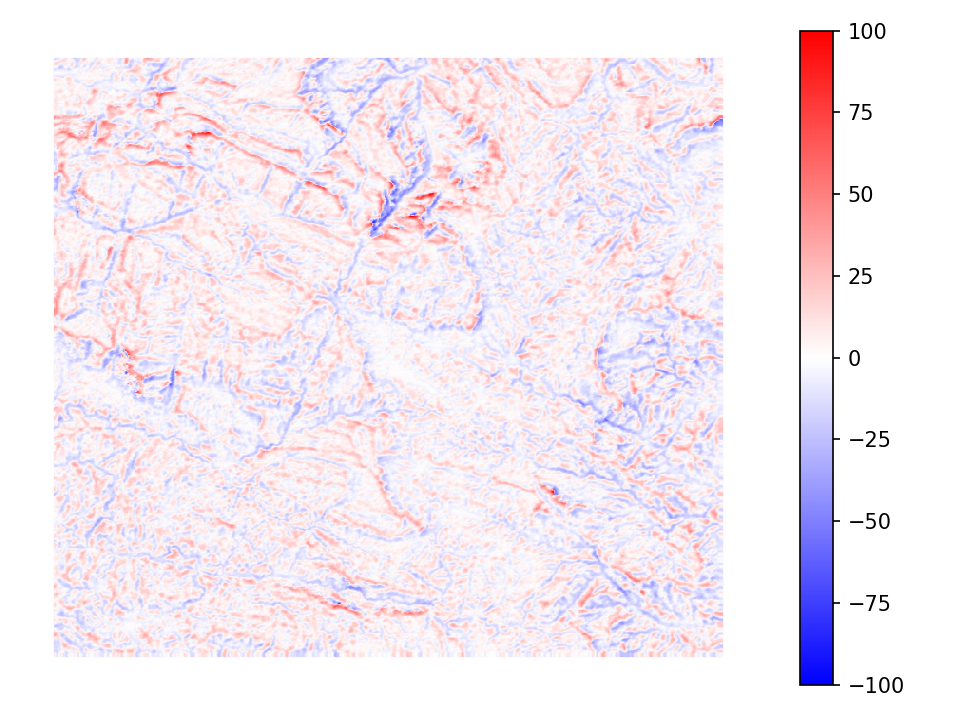
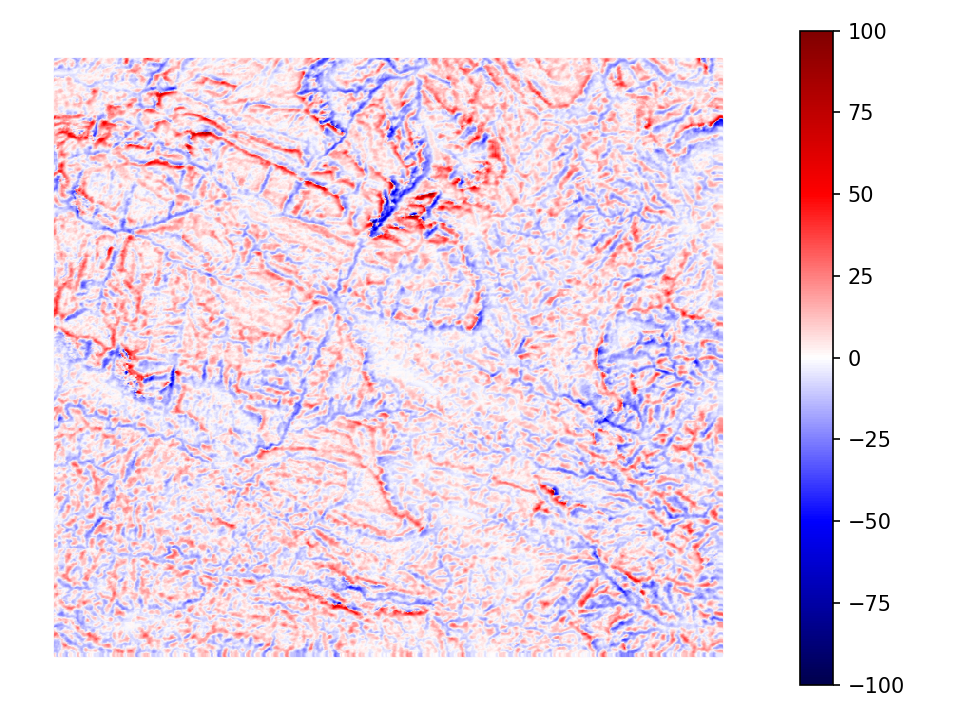
various

Changed region(s): [[0.0312, 0.0611, 0.75, 0.9167], [0.8125, 0.5194, 0.875, 0.9778], [0.8125, 0.0306, 0.875, 0.4583]]

diff --git a/src/alt_lk/render/Map2D.py b/src/alt_lk/render/Map2D.py
@@ -12,24 +12,13 @@ log = Log("Map2D")
 class Map2D(AbstractPlot):
     @property
     def cmap(self):
-        # Define custom colormap
-        cdict = {
-            "red": [(0.0, 0.0, 0.0), (0.5, 1.0, 1.0), (1.0, 1.0, 1.0)],
-            "green": [(0.0, 0.0, 0.0), (0.5, 1.0, 1.0), (1.0, 0.0, 0.0)],
-            "blue": [(0.0, 1.0, 1.0), (0.5, 1.0, 1.0), (1.0, 0.0, 0.0)],
-        }
-        return LinearSegmentedColormap("CustomMap", cdict)
+        return "seismic"
 
     def build_plot(self):
         log.debug("build_plot")
+        alt = self.alt or Alt.get_matrix_subset(self.bbox)
+        alt = self.get_mapped_alt(alt) if self.get_mapped_alt else alt
 
-        if self.alt is None:
-            alt = Alt.get_matrix_subset(self.bbox)
-        else:
-            alt = self.alt
-
-        if self.get_mapped_alt is not None:
-            alt = self.get_mapped_alt(alt)
         log.debug(f"alt.shape={alt.shape}")
         lat, lng = np.mgrid[: alt.shape[0], : alt.shape[1]]
 

diff --git a/src/alt_lk/render/AbstractPlot.py b/src/alt_lk/render/AbstractPlot.py
@@ -46,7 +46,7 @@ class AbstractPlot:
     def save_and_start(image_path: str):
         plt.savefig(image_path, dpi=AbstractPlot.DPI)
         log.info(f"Wrote {image_path}.")
-        # os.startfile(image_path)
+        os.startfile(image_path)
 
     def write(self, place: str, image_path: str, force: bool = False):
         if not force and os.path.exists(image_path):
@@ -59,4 +59,3 @@ class AbstractPlot:
         self.set_tight_layout()
         self.save_and_start(image_path)
         plt.close()
-        os.startfile(image_path)

diff --git a/examples/example5_derivative.py b/examples/example5_derivative.py
@@ -15,11 +15,11 @@ def main():
     dir_group = os.path.join("examples", "images", "example5_derivative")
     os.makedirs(dir_group, exist_ok=True)
 
-    place_name = "Sri Lanka"
-    bbox = BBox(LatLng(5.9, 79.5), LatLng(9.9, 81.9))
+    # place_name = "Sri Lanka"
+    # bbox = BBox(LatLng(5.9, 79.5), LatLng(9.9, 81.9))
 
-    # place_name = "Nuwara Eliya"
-    # bbox = PLACE_BBOX_IDX[place_name]
+    place_name = "Nuwara Eliya"
+    bbox = PLACE_BBOX_IDX[place_name]
 
     SIZE = 10
     log.debug(f"{place_name=}")
